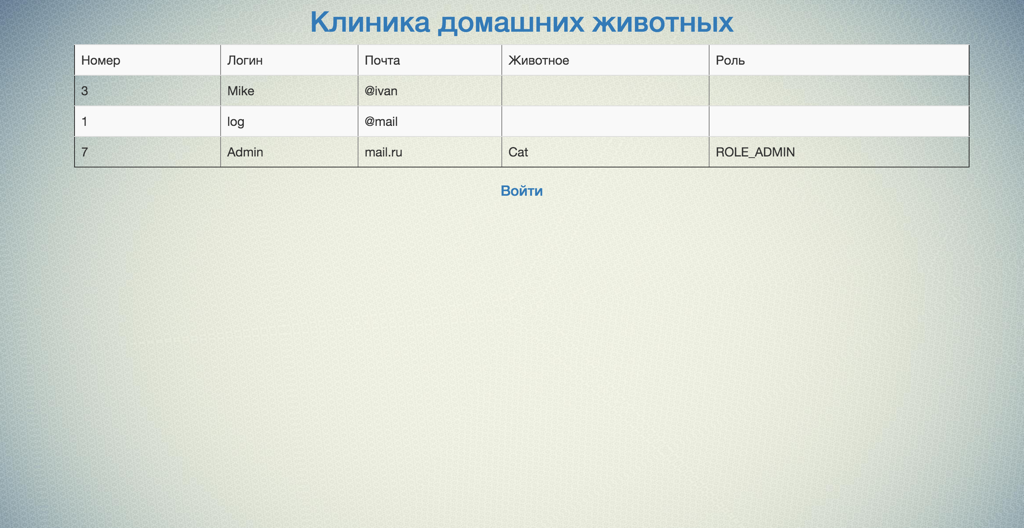
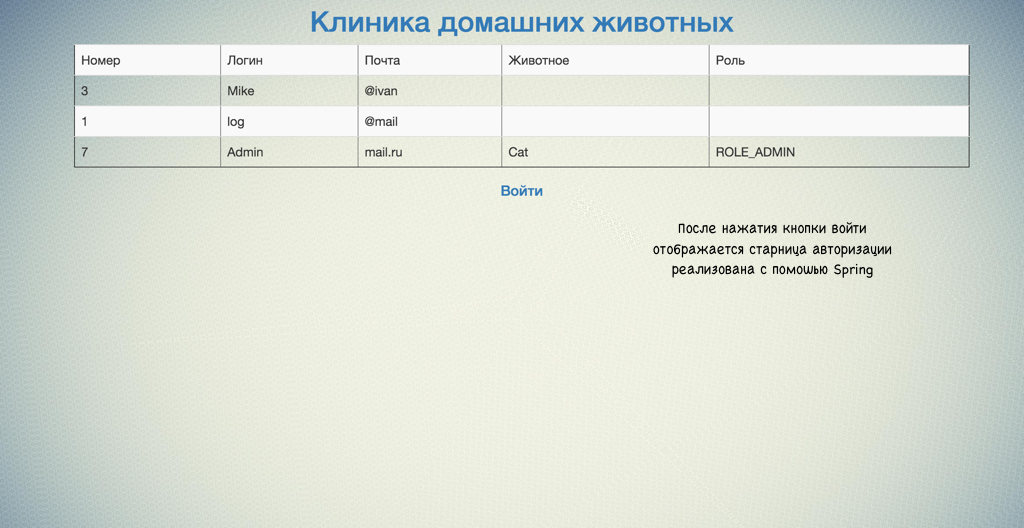
Spring

Changed region(s): [[0.625, 0.4242, 0.875, 0.5455]]

diff --git a/src/test/java/ru/misha/controllers/ClientControllerTest.java b/src/test/java/ru/misha/controllers/ClientControllerTest.java
@@ -1,0 +1,13 @@
+package ru.misha.controllers;
+
+import org.junit.Test;
+
+import static org.junit.Assert.*;
+
+public class ClientControllerTest {
+
+    @Test
+    public void testShowClient() throws Exception {
+
+    }
+}

diff --git a/README.md b/README.md
@@ -2,8 +2,12 @@
 
 В данном проекте я разрабатываю сайт с использованием Spring MVC + Spring Security + Hibernate + JSP.
 Днанное приложение реализовывает работу компании "Клинику домашних животных"
-Реализованы функиции добавление, удаление, редактирование данных в базе данных и последуеший вывод данных на сайт компании.
-Так реализованна авторизация и переход в кабинет для редактирования данных.
+Реализованы функиции добавление, удаление, редактирование данных в базе данных PostgreSQL и последуюший вывод данных на сайт компании.
+Так же реализованна авторизация и переход в кабинет для редактирования данных.
 
 Далее на слайдах я отображу работу данного приложения.
+Главная старница которая отображатется для все пользователей.
 ![Image alt] (README-Image/pic1.png)
+
+Форма авто авторизации
+![Image alt] (README-Image/pic2.png)
